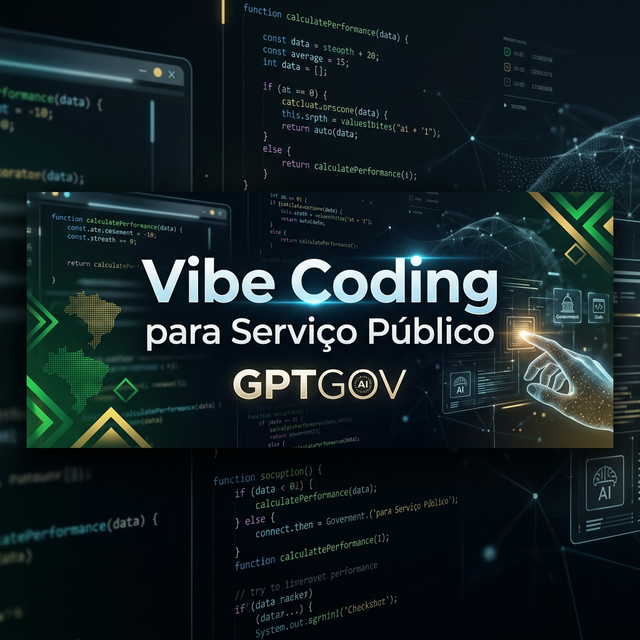
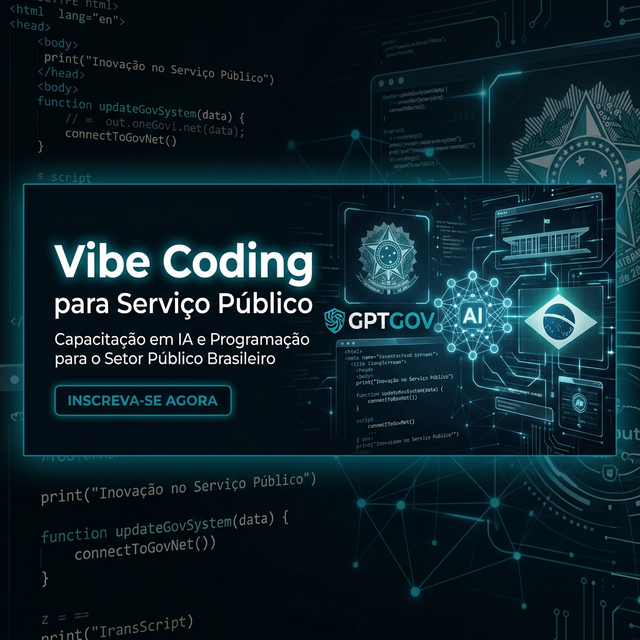
style: update visual identity to petroleum blue (#216673) and refine App UI

diff --git a/App.tsx b/App.tsx
@@ -1,35 +1,56 @@
 import React from 'react';
 import { motion } from 'framer-motion';
-import { Box } from 'lucide-react';
+import { Terminal, Code2, Users, Sparkles } from 'lucide-react';
 
 const App: React.FC = () => {
   return (
-    <div className="flex min-h-screen w-full items-center justify-center p-4 bg-muted/30">
+    <div className="flex min-h-screen w-full items-center justify-center p-4 bg-background">
       <motion.div
-        initial={{ opacity: 0, scale: 0.95 }}
-        animate={{ opacity: 1, scale: 1 }}
-        transition={{ duration: 0.5, ease: "easeOut" }}
-        className="w-full max-w-md overflow-hidden rounded-xl border bg-card text-card-foreground shadow-sm"
+        initial={{ opacity: 0, y: 20 }}
+        animate={{ opacity: 1, y: 0 }}
+        transition={{ duration: 0.6, ease: "easeOut" }}
+        className="w-full max-w-2xl overflow-hidden rounded-2xl border bg-card text-card-foreground shadow-2xl"
       >
-        <div className="flex flex-col items-center justify-center p-6 text-center space-y-4">
-          <div className="flex h-16 w-16 items-center justify-center rounded-full bg-muted">
-            <Box className="h-8 w-8 text-muted-foreground" />
+        <div className="bg-primary p-8 text-primary-foreground text-center space-y-4">
+          <motion.div
+            initial={{ scale: 0 }}
+            animate={{ scale: 1 }}
+            transition={{ delay: 0.3, type: "spring", stiffness: 260, damping: 20 }}
+            className="inline-flex h-20 w-20 items-center justify-center rounded-2xl bg-white/10 backdrop-blur-sm mb-2"
+          >
+            <Terminal className="h-10 w-10 text-white" />
+          </motion.div>
+          <h1 className="text-3xl font-bold tracking-tight">Vibe Coding - Serviço Público</h1>
+          <p className="text-primary-foreground/80 max-w-md mx-auto">
+            Seu ambiente Antigravity está pronto para transformar o serviço público através da IA.
+          </p>
+        </div>
+
+        <div className="p-8 grid grid-cols-1 md:grid-cols-2 gap-6">
+          <div className="flex items-start space-x-4 p-4 rounded-xl bg-muted/50 border border-border/50">
+            <Code2 className="h-6 w-6 text-primary mt-1" />
+            <div>
+              <h3 className="font-semibold">Código Limpo</h3>
+              <p className="text-sm text-muted-foreground">Estrutura pronta para escalabilidade.</p>
+            </div>
           </div>
-          
-          <div className="space-y-2">
-            <h1 className="text-2xl font-semibold tracking-tight">
-              App Initialized
-            </h1>
-            <p className="text-sm text-muted-foreground">
-              Ready for development. Edit <code className="relative rounded bg-muted px-[0.3rem] py-[0.2rem] font-mono text-sm font-semibold">App.tsx</code> to start building.
-            </p>
+          <div className="flex items-start space-x-4 p-4 rounded-xl bg-muted/50 border border-border/50">
+            <Sparkles className="h-6 w-6 text-primary mt-1" />
+            <div>
+              <h3 className="font-semibold">IA Integrada</h3>
+              <p className="text-sm text-muted-foreground">Otimizado para o Antigravity.</p>
+            </div>
           </div>
         </div>
 
-        <div className="border-t bg-muted/50 p-4 flex justify-center">
-            <p className="text-xs text-muted-foreground">
-                React • TypeScript • Tailwind • Framer Motion
-            </p>
+        <div className="border-t p-6 bg-muted/30 flex flex-col items-center space-y-3">
+          <div className="flex items-center space-x-2 text-primary font-medium">
+            <Users className="h-5 w-5" />
+            <span>Comunidade GPTGOV</span>
+          </div>
+          <p className="text-xs text-muted-foreground">
+            React • TypeScript • Tailwind • Framer Motion
+          </p>
         </div>
       </motion.div>
     </div>

diff --git a/index.html b/index.html
@@ -3,7 +3,7 @@
   <head>
     <meta charset="UTF-8" />
     <meta name="viewport" content="width=device-width, initial-scale=1.0" />
-    <title>React Starter</title>
+    <title>Vibe Coding - Serviço Público</title>
     <script src="https://cdn.tailwindcss.com"></script>
     <link href="https://fonts.googleapis.com/css2?family=Inter:wght@300;400;500;600;700&display=swap" rel="stylesheet">
     <script>
@@ -59,26 +59,26 @@
     </script>
     <style>
       :root {
-        --background: 0 0% 100%;
-        --foreground: 222.2 84% 4.9%;
+        --background: 210 20% 98%;
+        --foreground: 190 60% 15%;
         --card: 0 0% 100%;
-        --card-foreground: 222.2 84% 4.9%;
+        --card-foreground: 190 60% 15%;
         --popover: 0 0% 100%;
-        --popover-foreground: 222.2 84% 4.9%;
-        --primary: 222.2 47.4% 11.2%;
-        --primary-foreground: 210 40% 98%;
-        --secondary: 210 40% 96.1%;
-        --secondary-foreground: 222.2 47.4% 11.2%;
-        --muted: 210 40% 96.1%;
-        --muted-foreground: 215.4 16.3% 46.9%;
-        --accent: 210 40% 96.1%;
-        --accent-foreground: 222.2 47.4% 11.2%;
+        --popover-foreground: 190 60% 15%;
+        --primary: 190 55.4% 29%;
+        --primary-foreground: 190 10% 98%;
+        --secondary: 190 20% 90%;
+        --secondary-foreground: 190 55.4% 29%;
+        --muted: 190 10% 94%;
+        --muted-foreground: 190 30% 40%;
+        --accent: 190 30% 94%;
+        --accent-foreground: 190 55.4% 29%;
         --destructive: 0 84.2% 60.2%;
         --destructive-foreground: 210 40% 98%;
-        --border: 214.3 31.8% 91.4%;
-        --input: 214.3 31.8% 91.4%;
-        --ring: 222.2 84% 4.9%;
-        --radius: 0.5rem;
+        --border: 190 20% 88%;
+        --input: 190 20% 88%;
+        --ring: 190 55.4% 29%;
+        --radius: 0.75rem;
       }
     </style>
   <script type="importmap">
